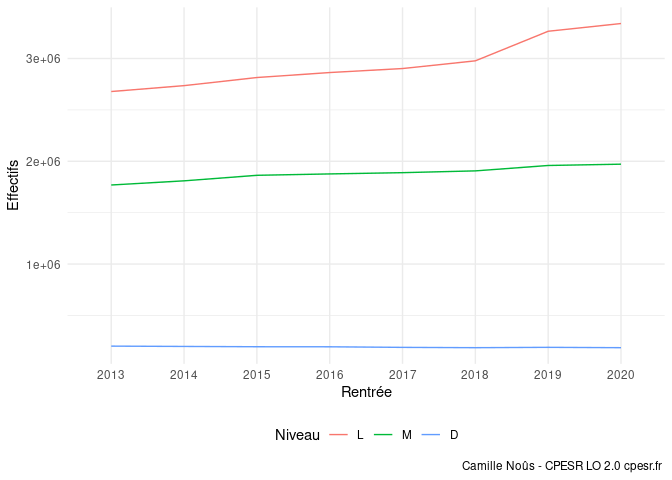
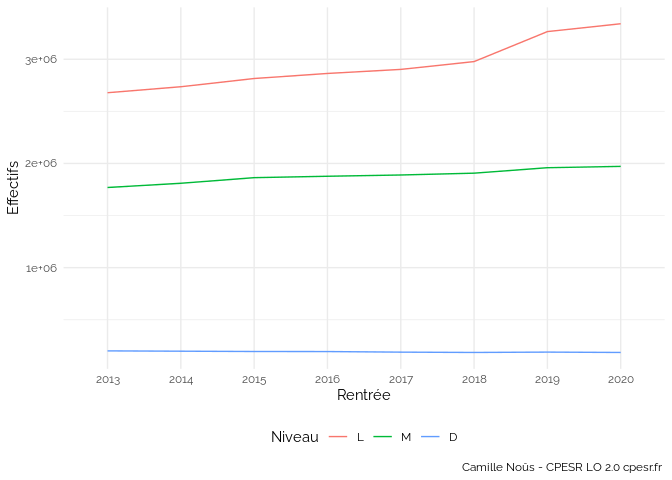
Amélioration du setup

diff --git a/README.md b/README.md
@@ -21,8 +21,6 @@ library(ggcpesrthemes)
 ### `spoiler_table`
 
 ``` r
-library(ggplot2)
-library(ggcpesrthemes)
 spoiler_table(esr)
 ```
 
@@ -75,8 +73,6 @@ ggplot(esr, aes(x=Rentrée, y=Effectifs, color=Niveau, group=Niveau)) +
 -   Thème et caption par défaut
 
 ``` r
-library(ggplot2)
-library(ggcpesrthemes)
 ggplot(esr, aes(x=Rentrée, y=Effectifs, color=Niveau, group=Niveau)) + 
   geom_line() + 
   theme_cpesr_cap() 
@@ -87,8 +83,6 @@ ggplot(esr, aes(x=Rentrée, y=Effectifs, color=Niveau, group=Niveau)) +
 -   Thème et caption personnalisés
 
 ``` r
-library(ggplot2)
-library(ggcpesrthemes)
 ggplot(esr, aes(x=Rentrée, y=Effectifs, color=Niveau, group=Niveau)) + 
   geom_line() + 
   theme_cpesr_cap(authors=c("Author One","Author Two"), 
@@ -103,9 +97,6 @@ ggplot(esr, aes(x=Rentrée, y=Effectifs, color=Niveau, group=Niveau)) +
 -   Thème et caption personnalisés globalement
 
 ``` r
-library(ggplot2)
-library(ggcpesrthemes)
-
 theme_cpesr_setup(authors=c("Author One","Author Two"), 
                   camille=FALSE, 
                   licence="CC BY-SA",
@@ -124,8 +115,6 @@ ggplot(esr, aes(x=Rentrée, y=Effectifs, color=Niveau, group=Niveau)) +
 -   `x_grid = FALSE`
 
 ``` r
-library(ggplot2)
-library(ggcpesrthemes)
 ggplot(esr, aes(x=Rentrée, y=Effectifs, color=Niveau, group=Niveau)) + 
   geom_line() + 
   theme_cpesr(x_grid = FALSE) 
@@ -136,8 +125,6 @@ ggplot(esr, aes(x=Rentrée, y=Effectifs, color=Niveau, group=Niveau)) +
 -   `x_ticks = TRUE`
 
 ``` r
-library(ggplot2)
-library(ggcpesrthemes)
 ggplot(esr, aes(x=Rentrée, y=Effectifs, color=Niveau, group=Niveau)) + 
   geom_line() + 
   theme_cpesr(x_ticks = TRUE) 
@@ -148,8 +135,6 @@ ggplot(esr, aes(x=Rentrée, y=Effectifs, color=Niveau, group=Niveau)) +
 -   `y_grid = FALSE`
 
 ``` r
-library(ggplot2)
-library(ggcpesrthemes)
 ggplot(esr, aes(x=Rentrée, y=Effectifs, color=Niveau, group=Niveau)) + 
   geom_line() + 
   theme_cpesr(y_grid = FALSE) 
@@ -160,8 +145,6 @@ ggplot(esr, aes(x=Rentrée, y=Effectifs, color=Niveau, group=Niveau)) +
 -   `y_ticks = TRUE`
 
 ``` r
-library(ggplot2)
-library(ggcpesrthemes)
 ggplot(esr, aes(x=Rentrée, y=Effectifs, color=Niveau, group=Niveau)) + 
   geom_line() + 
   theme_cpesr(y_ticks = TRUE) 
@@ -172,11 +155,21 @@ ggplot(esr, aes(x=Rentrée, y=Effectifs, color=Niveau, group=Niveau)) +
 -   `minor_grid = FALSE`
 
 ``` r
-library(ggplot2)
-library(ggcpesrthemes)
 ggplot(esr, aes(x=Rentrée, y=Effectifs, color=Niveau, group=Niveau)) + 
   geom_line() + 
   theme_cpesr(minor_grid = FALSE) 
 ```
 
 ![](README_files/figure-gfm/minor_panel-1.png)<!-- -->
+
+-   customisation globale
+
+``` r
+theme_cpesr_setup(minor_grid = FALSE, x_ticks = TRUE)
+
+ggplot(esr, aes(x=Rentrée, y=Effectifs, color=Niveau, group=Niveau)) + 
+  geom_line() + 
+  theme_cpesr() 
+```
+
+![](README_files/figure-gfm/glob-1.png)<!-- -->
